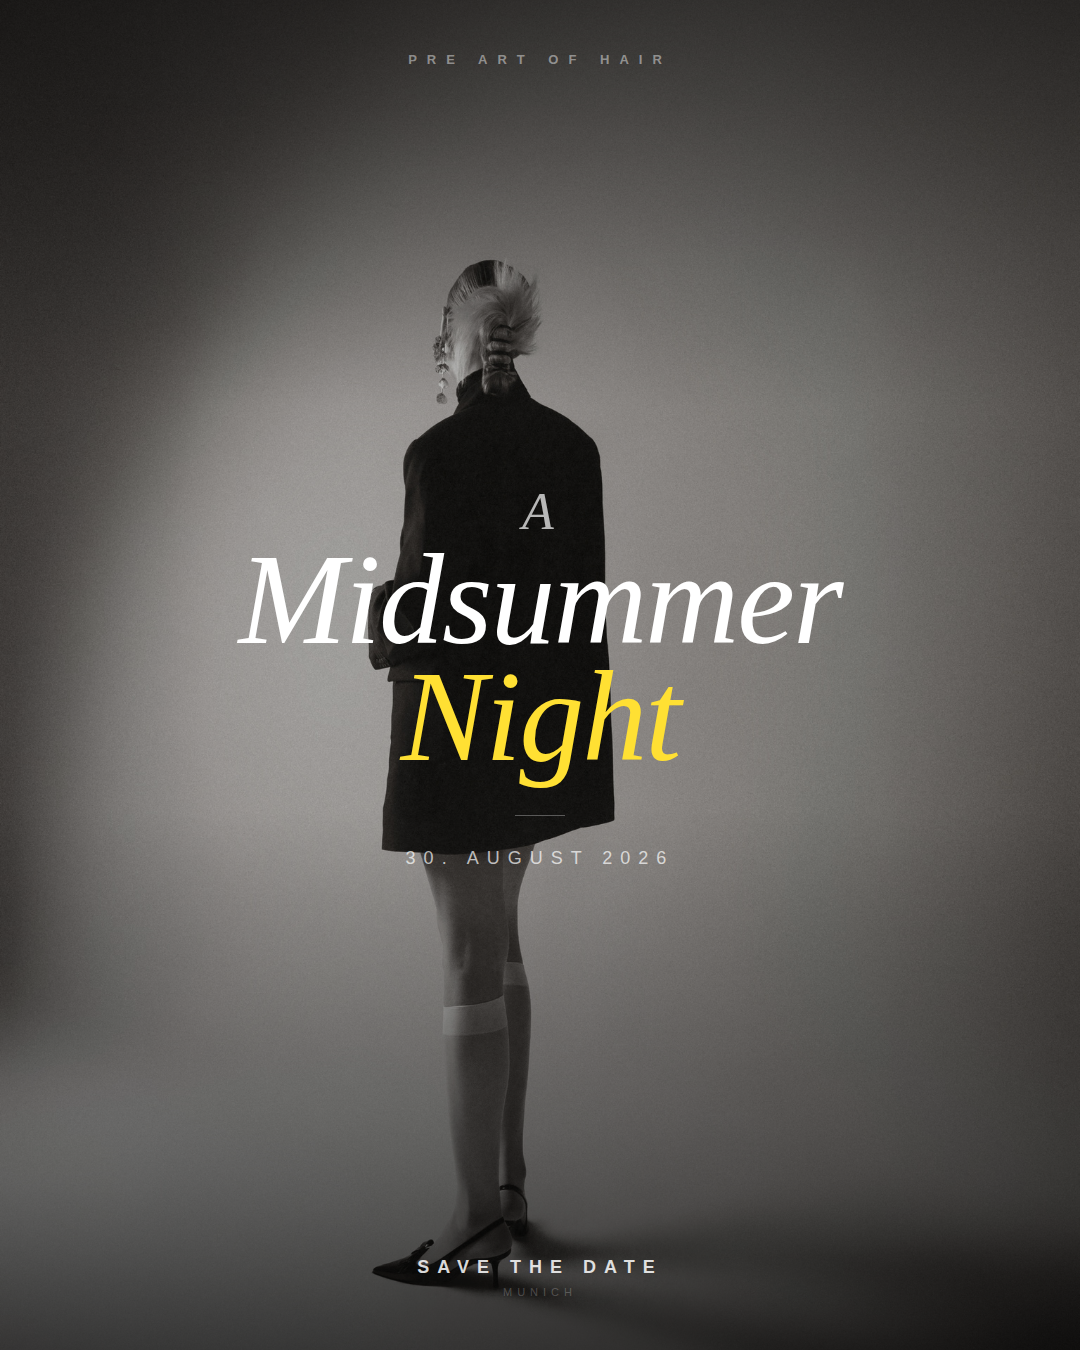
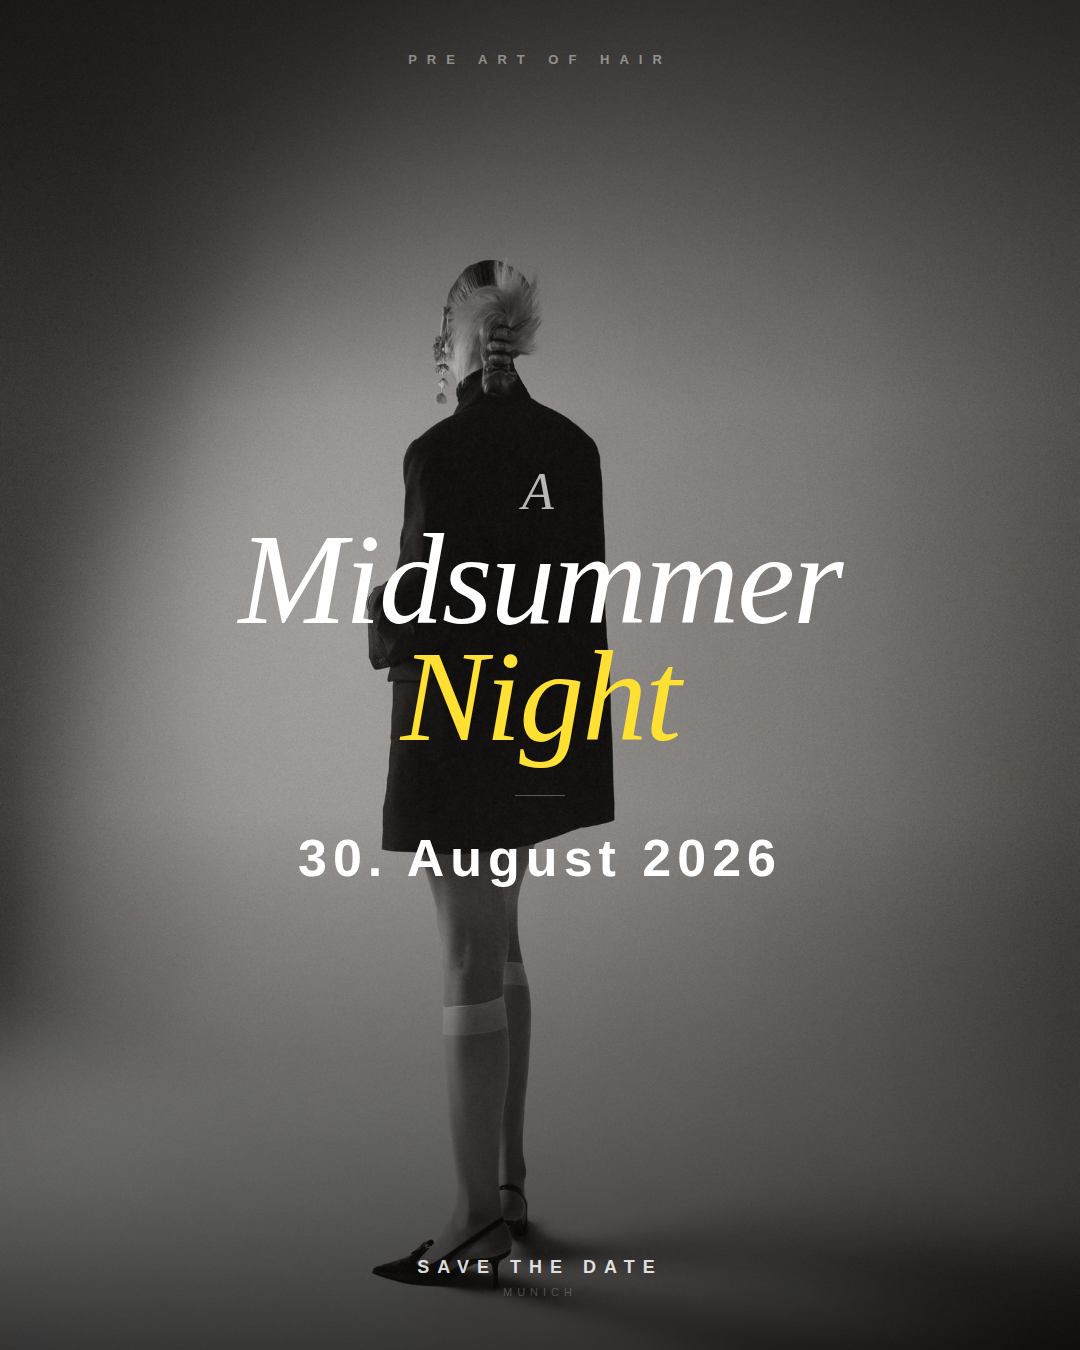
Make date "30. August" large and prominent on Save the Date
Claude-Session: https://claude.ai/code/session_01BaC8m9wAmbtKccXQSCmnYc

Changed region(s): [[0.2139, 0.3422, 0.7944, 0.5911], [0.3667, 0.6222, 0.7333, 0.6533], [0.275, 0.6222, 0.3361, 0.6533]]

diff --git a/save-the-date.html b/save-the-date.html
@@ -94,11 +94,10 @@
     }
     .date {
       font-family: 'Barlow', sans-serif;
-      font-weight: 300;
-      font-size: 18px;
-      letter-spacing: 8px;
-      text-transform: uppercase;
-      color: rgba(255,255,255,0.70);
+      font-weight: 700;
+      font-size: 52px;
+      letter-spacing: 6px;
+      color: #ffffff;
     }
 
     /* Save the date unten */
